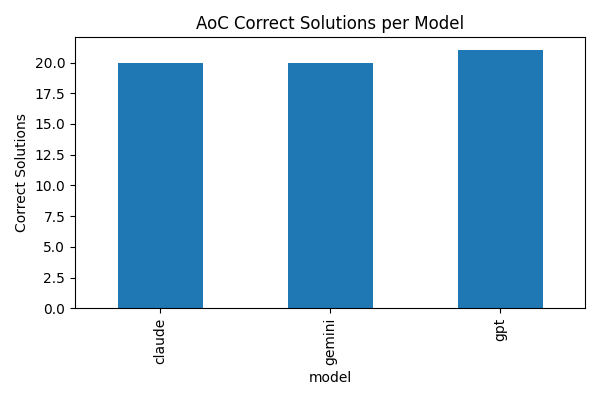
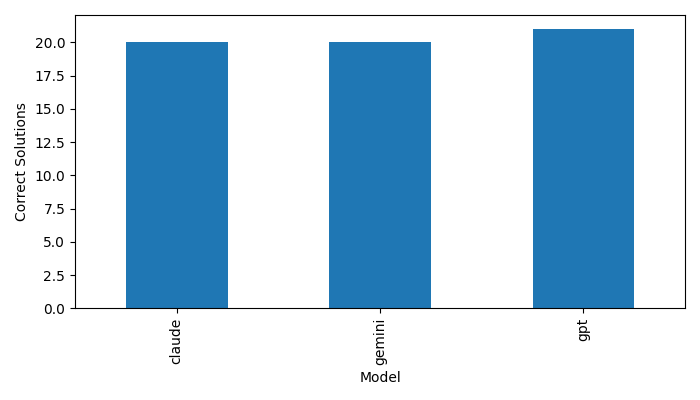
split analysis scripts and update AoC result files

diff --git a/aoc/results/analyze_aoc_results.py b/aoc/results/analyze_aoc_results.py
@@ -1,0 +1,111 @@
+import pandas as pd
+import matplotlib.pyplot as plt
+from pathlib import Path
+
+CSV_PATH = Path("benchmark_results.csv")
+
+if not CSV_PATH.exists():
+    raise FileNotFoundError("benchmark_results.csv wurde nicht gefunden.")
+
+df = pd.read_csv(CSV_PATH)
+
+print("\n=== Advent of Code Evaluation ===\n")
+
+summary = (
+    df.groupby(["model", "status"])
+    .size()
+    .unstack(fill_value=0)
+)
+
+print(summary)
+
+summary["total"] = summary.sum(axis=1)
+
+if "correct" not in summary.columns:
+    summary["correct"] = 0
+
+summary["success_rate"] = (
+    summary["correct"] / summary["total"] * 100
+).round(2)
+
+print("\n=== Success Rates ===\n")
+print(summary[["correct", "total", "success_rate"]])
+
+summary.to_csv("aoc_summary.csv")
+
+# Diagramm: Correct Solutions
+plt.figure(figsize=(7, 4))
+summary["correct"].plot(kind="bar")
+plt.ylabel("Correct Solutions")
+plt.xlabel("Model")
+plt.tight_layout()
+plt.savefig("aoc_correct_solutions.png")
+plt.close()
+
+# Diagramm: Success Rate
+plt.figure(figsize=(7, 4))
+summary["success_rate"].plot(kind="bar")
+plt.ylabel("Success Rate (%)")
+plt.xlabel("Model")
+plt.ylim(0, 100)
+plt.tight_layout()
+plt.savefig("aoc_success_rate.png")
+plt.close()
+
+# Fehlertypen ohne correct
+error_df = df[df["status"] != "correct"]
+
+if not error_df.empty:
+    error_summary = (
+        error_df.groupby(["model", "status"])
+        .size()
+        .unstack(fill_value=0)
+    )
+
+    print("\n=== Error Types ===\n")
+    print(error_summary)
+
+    error_summary.to_csv("aoc_error_summary.csv")
+
+    plt.figure(figsize=(8, 4))
+    error_summary.plot(kind="bar", stacked=True)
+    plt.ylabel("Count")
+    plt.xlabel("Model")
+    plt.tight_layout()
+    plt.savefig("aoc_error_types.png")
+    plt.close()
+
+# Part 1 vs Part 2
+df["part"] = df["case"].apply(lambda x: "part1" if "part1" in x else "part2")
+
+part_summary = (
+    df.assign(is_correct=df["status"] == "correct")
+    .groupby(["model", "part"])["is_correct"]
+    .mean()
+    .unstack(fill_value=0)
+    * 100
+).round(2)
+
+print("\n=== Part 1 vs Part 2 Success Rate ===\n")
+print(part_summary)
+
+part_summary.to_csv("aoc_part_summary.csv")
+
+plt.figure(figsize=(7, 4))
+part_summary.plot(kind="bar")
+plt.ylabel("Success Rate (%)")
+plt.xlabel("Model")
+plt.ylim(0, 100)
+plt.tight_layout()
+plt.savefig("aoc_part1_vs_part2.png")
+plt.close()
+
+print("\nAuswertung abgeschlossen.")
+print("Erzeugte Dateien:")
+print("- aoc_summary.csv")
+print("- aoc_error_summary.csv")
+print("- aoc_part_summary.csv")
+print("- aoc_correct_solutions.png")
+print("- aoc_success_rate.png")
+print("- aoc_error_types.png")
+print("- aoc_part1_vs_part2.png")